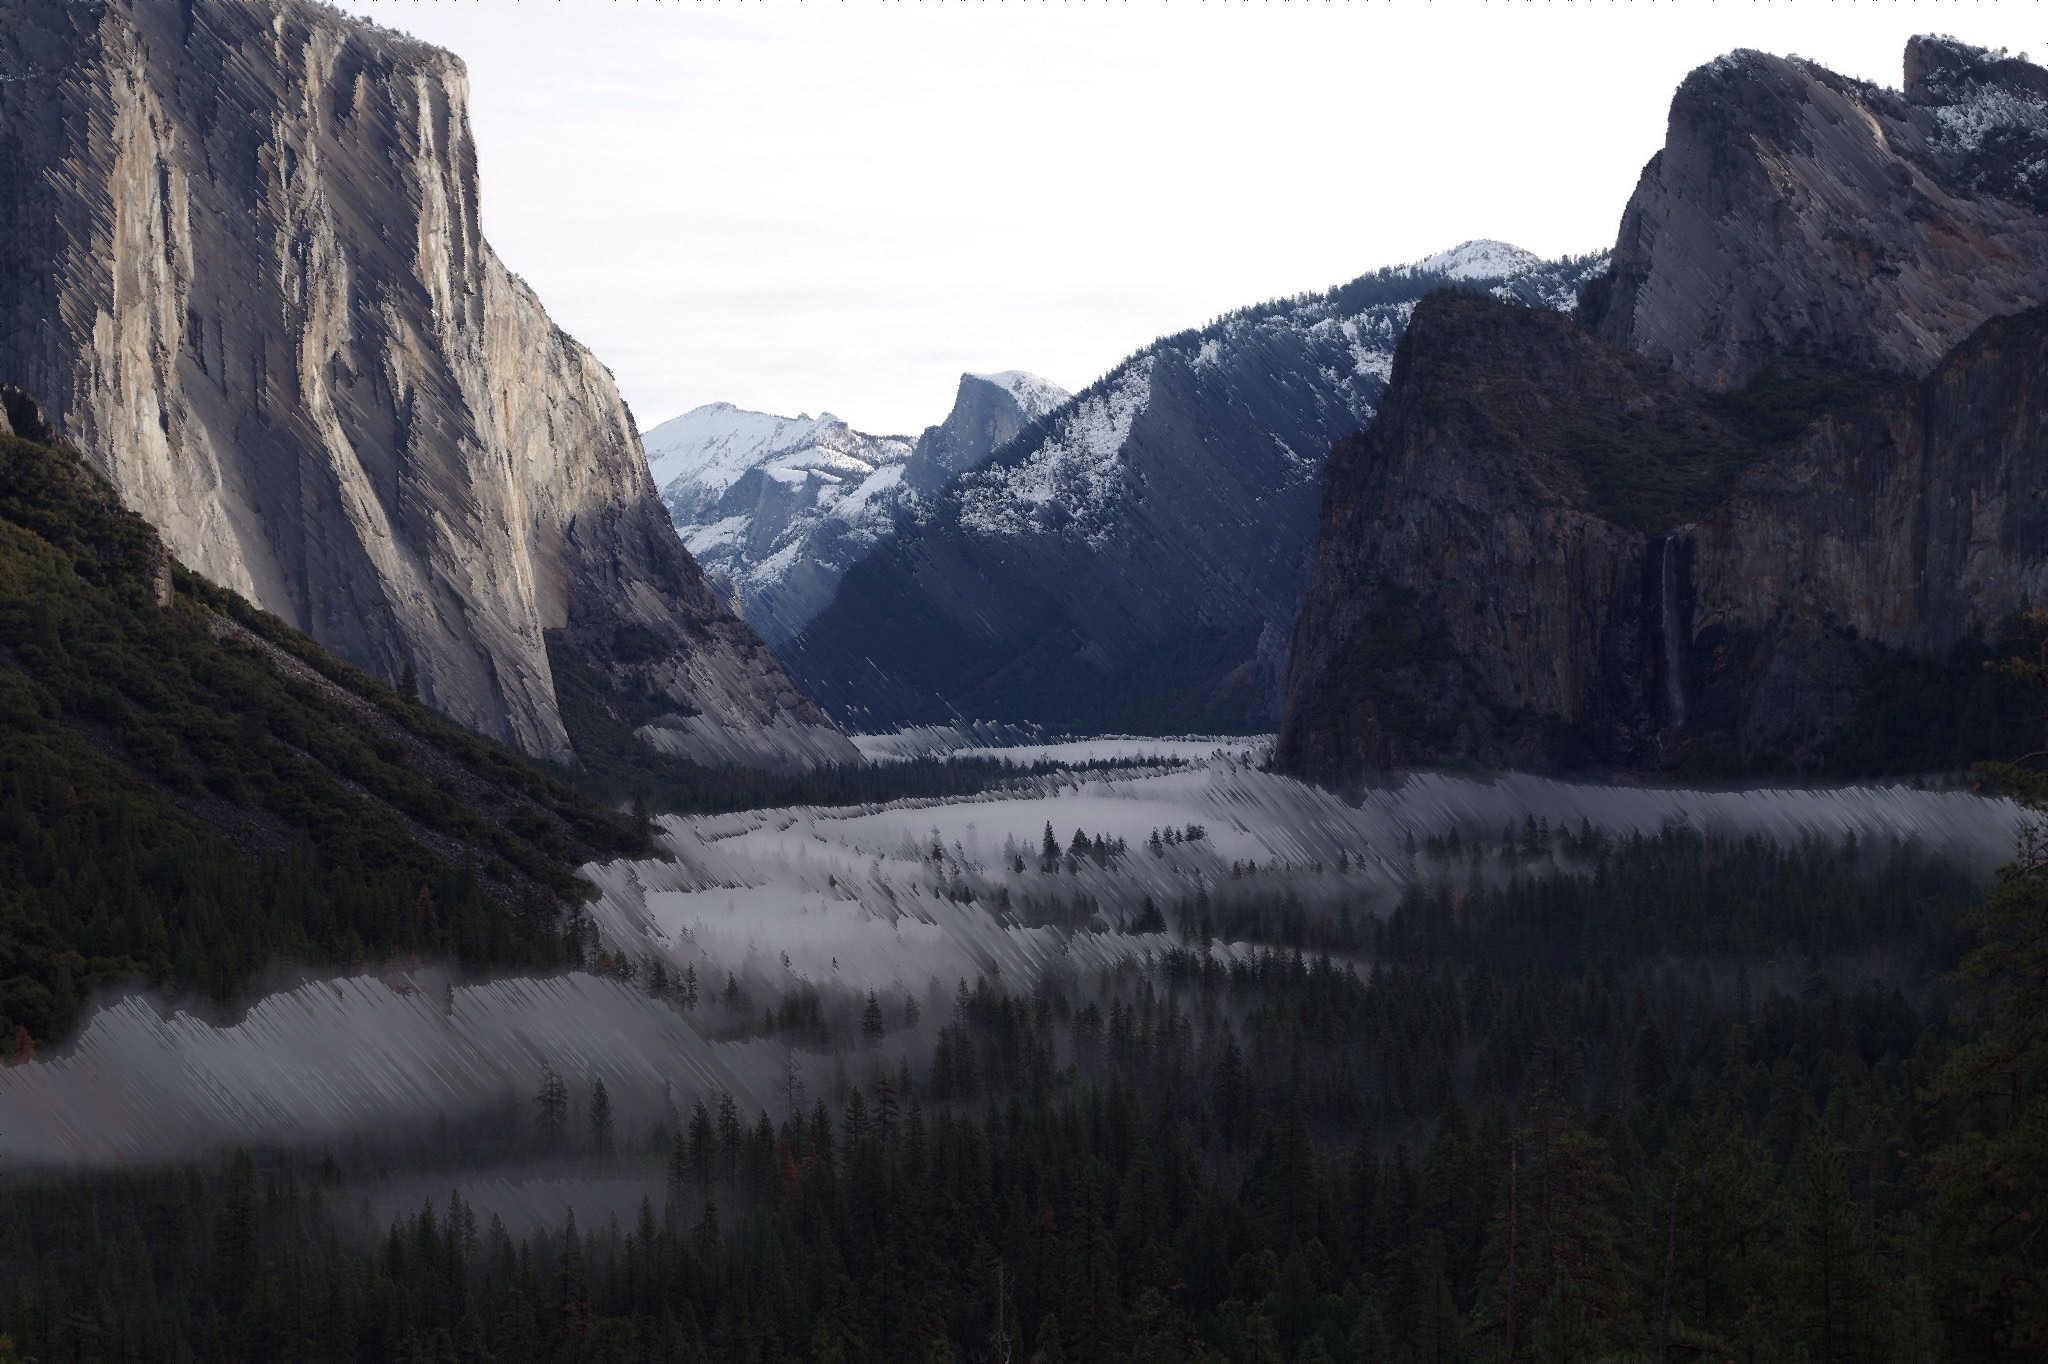
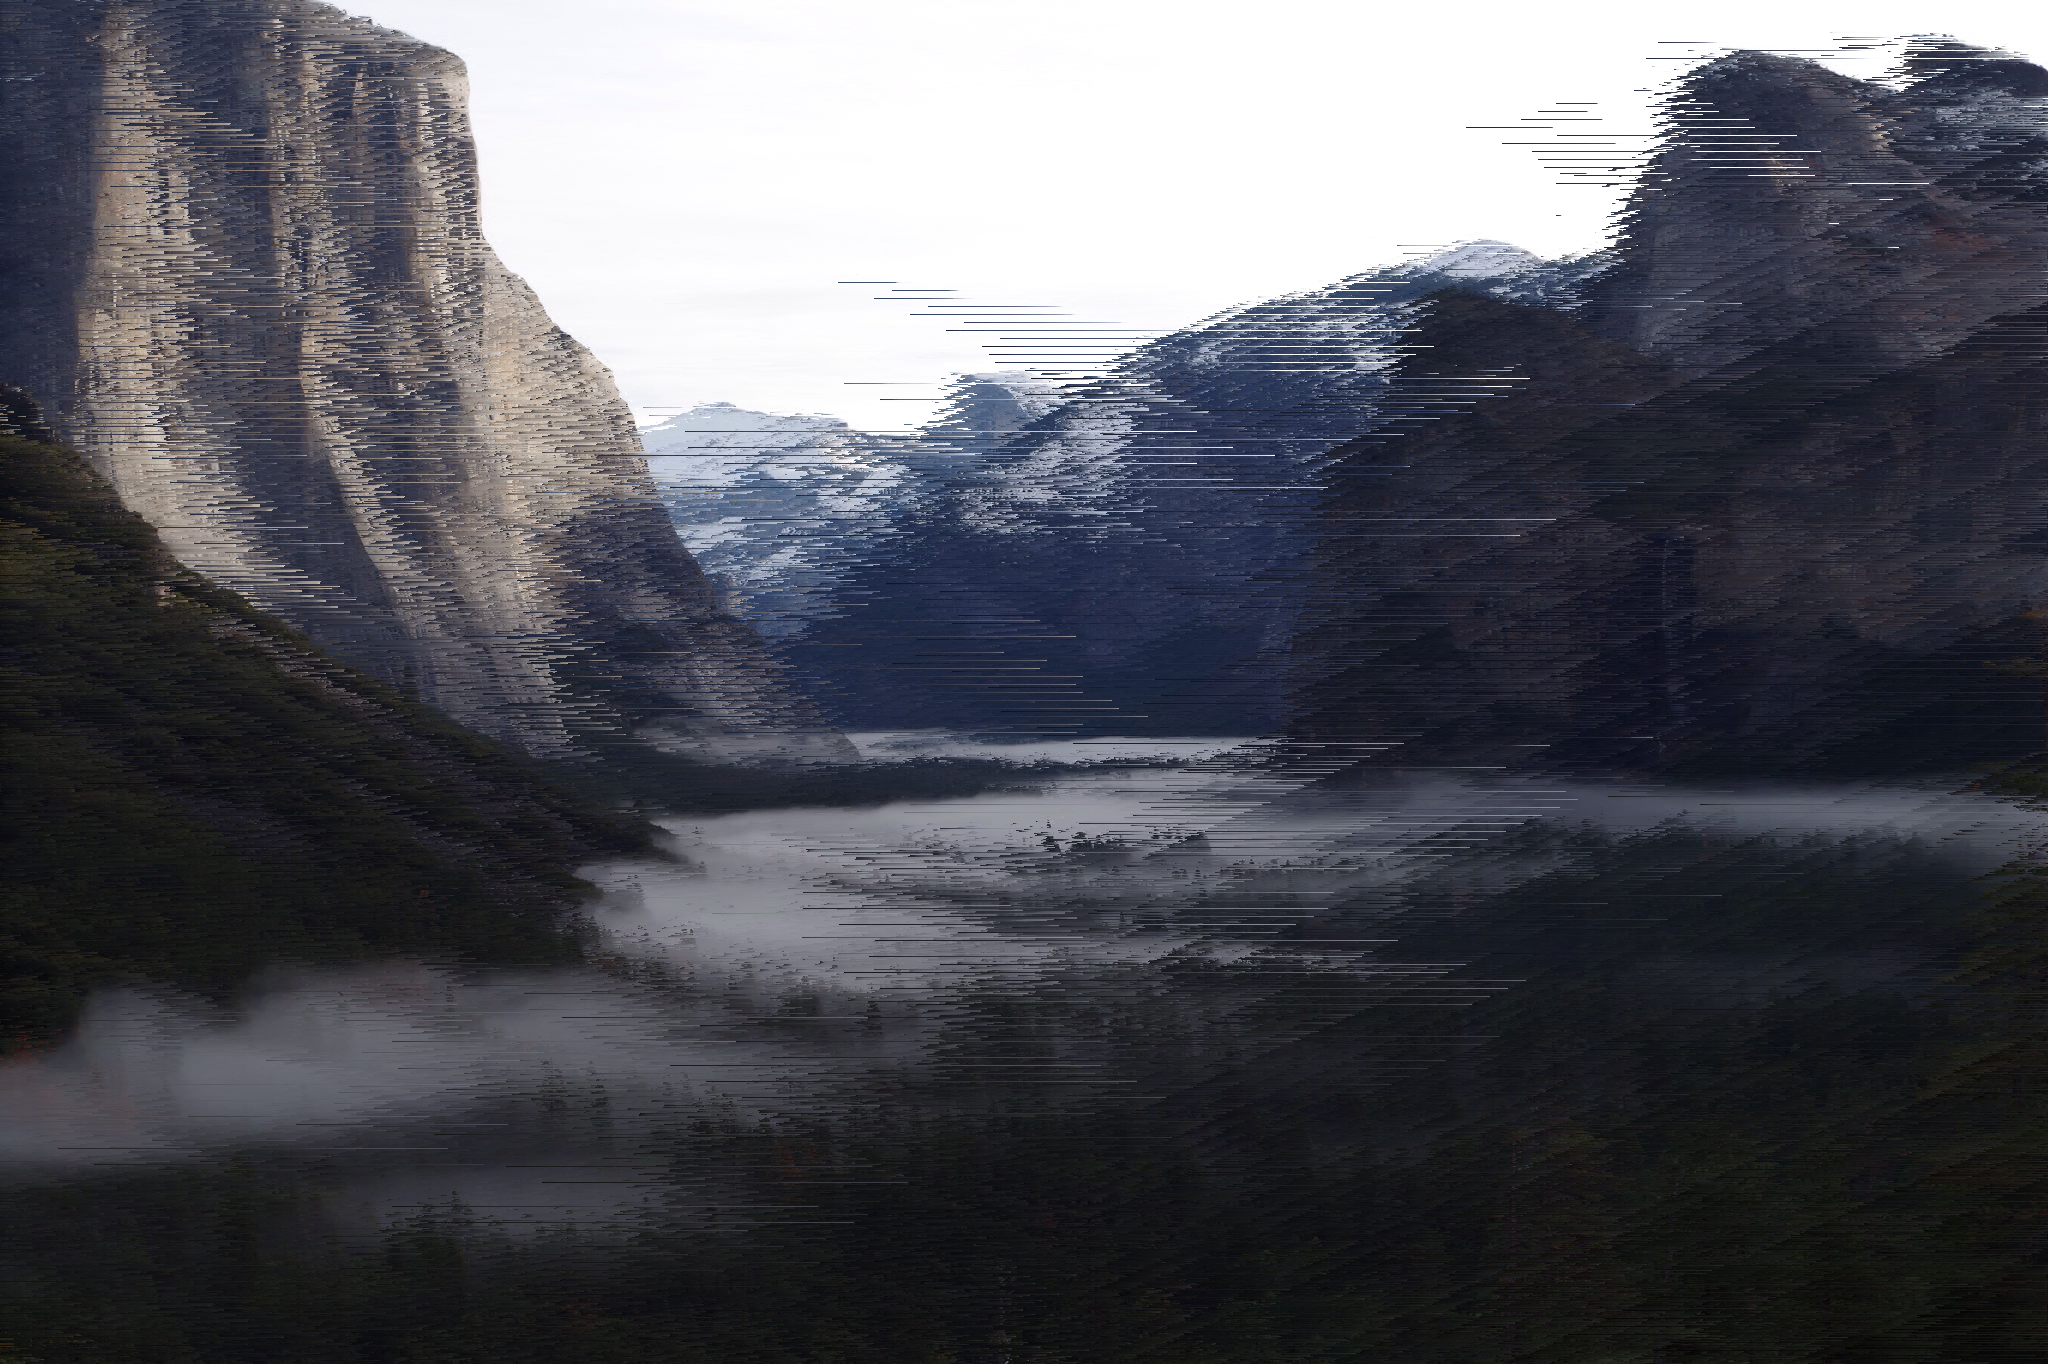
updated parts of the snap sort

diff --git a/pixelsort.py b/pixelsort.py
@@ -103,10 +103,10 @@ def ElementaryCA(pixels: Any, args: Any, width: int, height: int) -> Any:
     :param height: used for image size.
     :returns: PIL Image object.
     """
-    width /= 8
-    height /= 8
+    width /= 4
+    height /= 4
     if args.filelink in ["False", ""]:
-        rules: List = [26, 19, 23, 25, 35, 106, 11, 110, 45, 41, 105, 54, 3, 15, 9, 154]
+        rules: List = [26, 19, 23, 25, 35, 106, 11, 110, 45, 41, 105, 54, 3, 15, 9, 154, 142]
 
         if not args.int_function == "snap":
             ruleprompt = input(
@@ -146,15 +146,15 @@ def ElementaryCA(pixels: Any, args: Any, width: int, height: int) -> Any:
             ca: List = []
             # Initialize the first row of ca randomly
             Append(ca, [])
-            for x in range(width):
+            for x in range(int(width)):
                 AppendPartial(ca, 0, bool(rand.getrandbits(1)))
 
             # Generate the succeeding generation
             # Cells at the eges are initialized randomly
-            for y in range(1, height):
+            for y in range(1, int(height)):
                 Append(ca, [])
                 AppendPartial(ca, y, bool(rand.getrandbits(1)))
-                for x in range(1, width - 1):
+                for x in range(1, int(width) - 1):
                     AppendPartial(
                         ca,
                         y,
@@ -166,11 +166,11 @@ def ElementaryCA(pixels: Any, args: Any, width: int, height: int) -> Any:
         rule = generate_rule(rulenumber)
         ca = generate_ca(rule)
 
-        newImg = Image.new("RGB", [width, height])
+        newImg = Image.new("RGB", [int(width), int(height)])
 
         print(f"Creating file image..\nRule: {rulenumber}")
-        for y in ProgressBars(height, "Placing pixels..."):
-            for x in range(width):
+        for y in ProgressBars(int(height), "Placing pixels..."):
+            for x in range(int(width)):
                 newImg.putpixel(
                     (x, y),
                     true_pixel
@@ -701,7 +701,7 @@ def waves(pixels: Any, args: Any, internet: bool) -> List:
 
 
 def file_mask(pixels: Any, args: Any, internet: bool) -> List:
-    img = ElementaryCA(pixels, args, len(pixels), len(pixels[0])).resize(
+    img = ElementaryCA(pixels, args, int(len(pixels)), int(len(pixels[0]))).resize(
         (len(pixels[0]), len(pixels)), Image.ANTIALIAS
     )
     data: Any = img.load()
@@ -728,7 +728,7 @@ def file_mask(pixels: Any, args: Any, internet: bool) -> List:
 
 def file_edges(pixels: Any, args: Any, internet: bool) -> List:
     edge_data: Any = (
-        ElementaryCA(pixels, args, len(pixels), len(pixels[0]))
+        ElementaryCA(pixels, args, int(len(pixels)), int(len(pixels[0])))
         .rotate(args.angle, expand=True)
         .resize((len(pixels[0]), len(pixels)), Image.ANTIALIAS)
         .filter(ImageFilter.FIND_EDGES)
@@ -1263,8 +1263,9 @@ def main():
 
     if shuffled or snapped:
         if snapped:
-            intervals = file_edges(pixels, __args, internet)
-            sorted_pixels = SortImage(pixels, intervals, __args, sorting_function)
+            if preset_true:
+                intervals = file_edges(pixels, __args, internet)
+                sorted_pixels = SortImage(pixels, intervals, __args, sorting_function)
             print(
                 f"{('/' * 45)}\n"
                 f"Dread it. Run from it. Destiny still arrives."
@@ -1274,10 +1275,10 @@ def main():
             size0, size1 = thanos_img.size
             for y in ProgressBars(size1, "The end is near..."):
                 for x in range(size0):
-                    ImgPixels(thanos_img, x, y, sorted_pixels)
+                    ImgPixels(thanos_img, x, y, sorted_pixels if preset_true else pixels)
             thanos_img.save("images/thanos_img.png")
             print("I am... inevitable...")
-            sorted_pixels = interval_function(intervals, __args, internet)
+            sorted_pixels = interval_function(intervals if preset_true else pixels, __args, internet)
         else:
             sorted_pixels = interval_function(pixels, __args, internet)
     else:
@@ -1309,7 +1310,7 @@ def main():
         link = UploadImg("images/image.png")
         print("Image uploaded!")
 
-        if file_sorted or snapped:
+        if file_sorted or (snapped and preset_true):
             file_link = UploadImg("images/ElementaryCA.png")
             print("File image uploaded!")
         else:
@@ -1331,7 +1332,7 @@ def main():
                 f'Args: {(arg_parse_input if arg_parse_input is not None else "No args")}\n'
                 f'Sorted on: {date_time}\n\nSorted image: {link}\n{(35 * "-")}'
             )
-
+        
         print("Uploading to DB...")
         dbURL = "https://pixelsorting-a289.restdb.io/rest/outputs"
         payload = dumps(

diff --git a/README.md b/README.md
@@ -115,7 +115,7 @@ Sorting function | Description
 
 ---
 
-![alt text](examples/image2.png "Preset ID: 061820191145")
+![alt text](examples/image2.png "Preset ID: 062420191336")
 *[Starting image](https://s.put.re/QsUQbC1R.jpg)*
 
 ---
